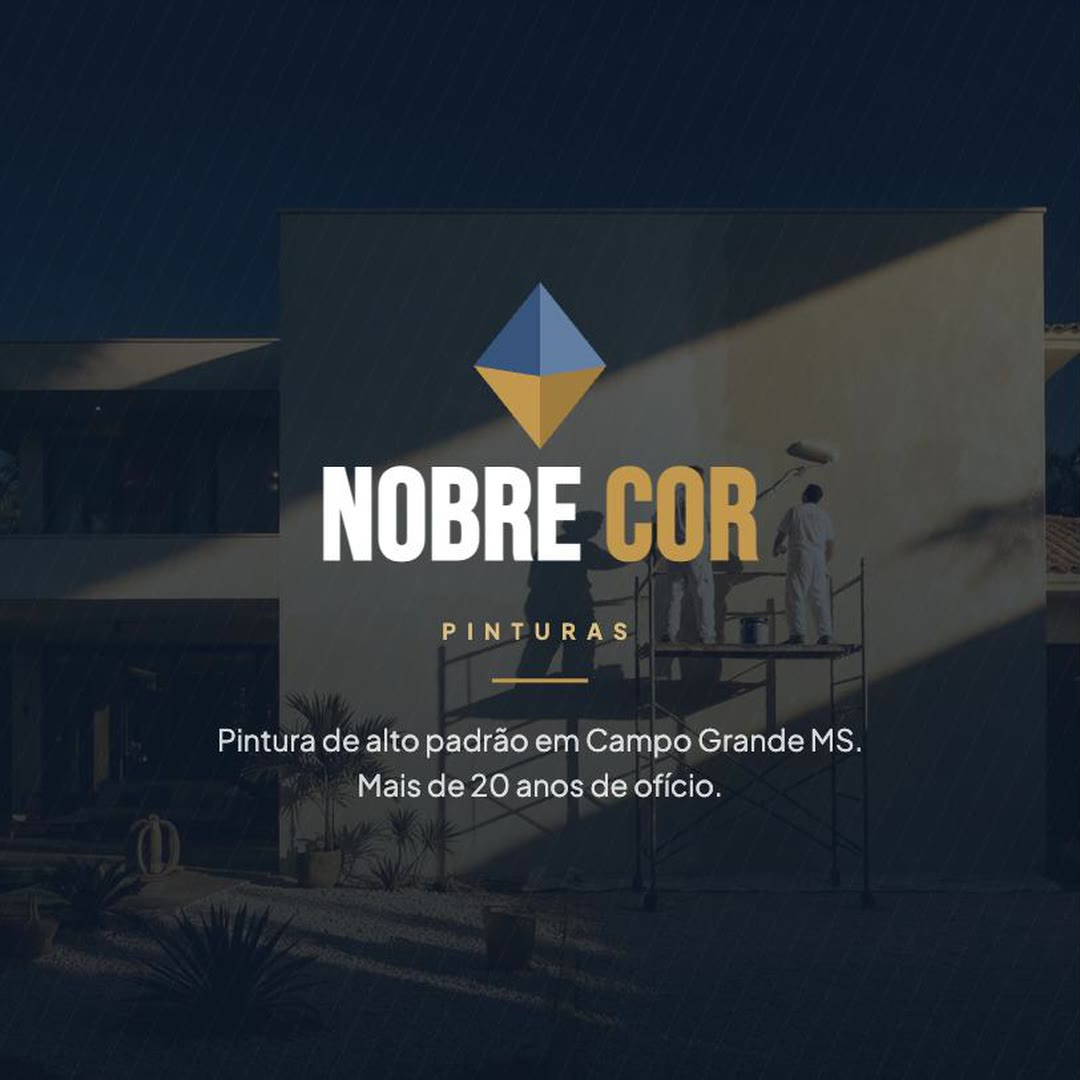
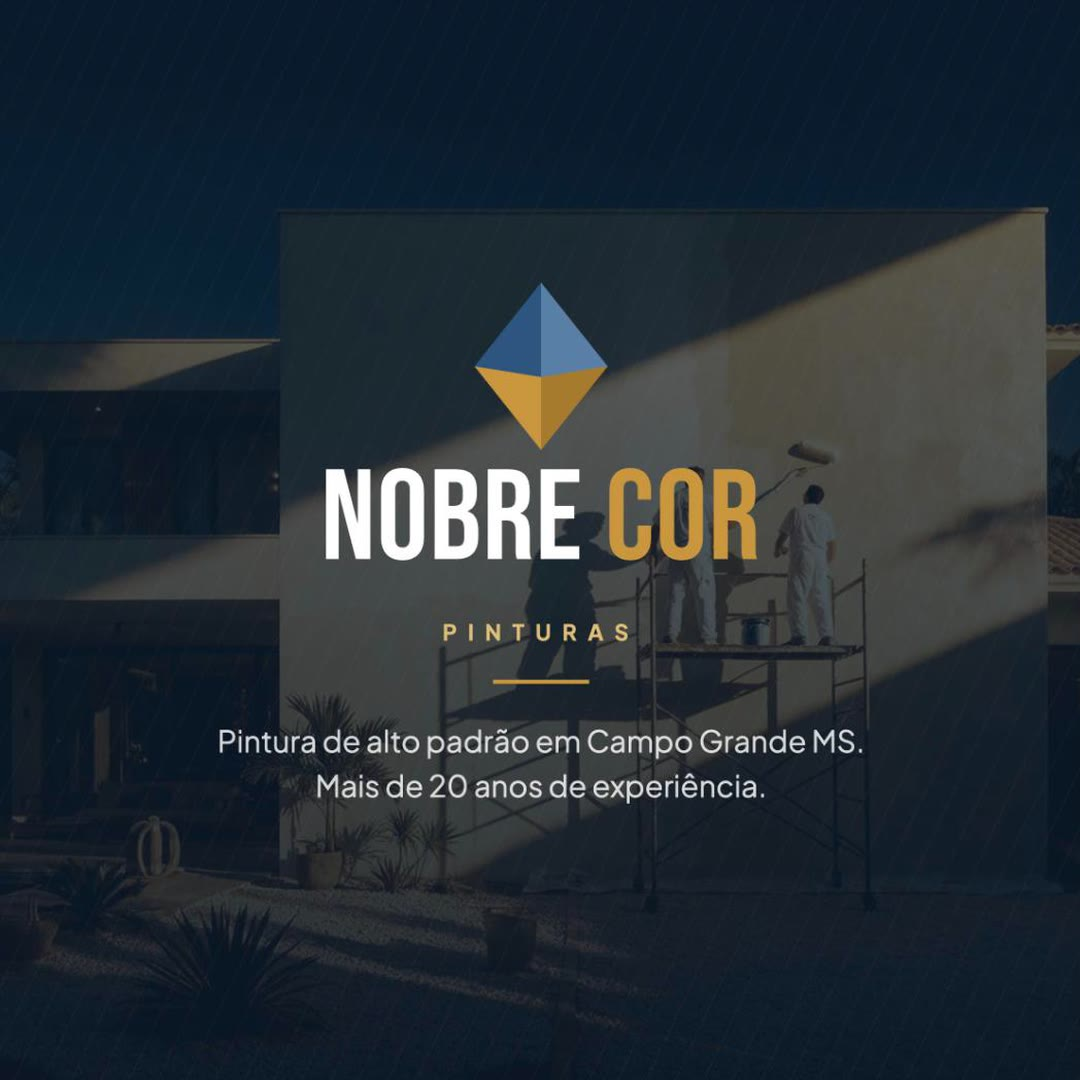
docs: domínio no ar e ajuste de vocabulário
- nobrecorpinturas.com.br publicado com TLS, www redirecionando 308 para o
  apex (sem o redirect o Google enxergaria duas cópias do site)
- "ofício" trocado por "experiência" em todo o site, a pedido do dono
- CLAUDE.md com o estado real de domínio, deploy, Google e Instagram

diff --git a/src/components/sections/FundadorSection.tsx b/src/components/sections/FundadorSection.tsx
@@ -41,7 +41,7 @@ export default function FundadorSection() {
             <figcaption className="mt-4 text-sm text-[#2b2b2b]/60">
               <span className="font-semibold text-[#1b3a5c]">{legenda}</span>
               <br />
-              Mais de 20 anos no ofício da pintura
+              Mais de 20 anos de experiência em pintura
             </figcaption>
           </figure>
         </Reveal>
@@ -56,7 +56,7 @@ export default function FundadorSection() {
               id="fundador-heading"
               className="mt-5 font-display text-3xl text-[#1b3a5c] md:text-4xl"
             >
-              Vinte anos aprendendo onde o ofício se aprende: dentro da obra
+              Vinte anos de experiência onde ela se constrói: dentro da obra
             </h2>
 
             <div className="mt-7 space-y-5 leading-relaxed text-[#2b2b2b]/80">

diff --git a/src/app/sobre/page.tsx b/src/app/sobre/page.tsx
@@ -11,7 +11,7 @@ import { buildBreadcrumbSchema, jsonLd } from '@/lib/schema'
 export const metadata: Metadata = buildMetadata({
   title: 'A Empresa Nobre Cor Pinturas em Campo Grande MS',
   description:
-    'Empresa de pintura de alto padrão em Campo Grande MS, com mais de 20 anos de experiência no ofício. Equipe uniformizada, obra protegida e limpa e cronograma cumprido.',
+    'Empresa de pintura de alto padrão em Campo Grande MS, com mais de 20 anos de experiência. Equipe uniformizada, obra protegida e limpa e cronograma cumprido.',
   path: '/sobre',
   tituloAbsoluto: true,
 })

diff --git a/src/content/servicos.ts b/src/content/servicos.ts
@@ -39,7 +39,7 @@ export interface Servico {
   etapas: { titulo: string; texto: string }[]
   /**
    * O erro que mais aparece neste serviço quando ele é feito às pressas.
-   * Conteúdo de ofício, útil para o cliente decidir e único por serviço.
+   * Conteúdo técnico do ramo, útil para o cliente decidir e único por serviço.
    */
   erroComum: { titulo: string; texto: string }
   keywords: string[]

diff --git a/CLAUDE.md b/CLAUDE.md
@@ -13,15 +13,16 @@
 | Stack | Next.js 16.3.1 · React 19.2.8 · **TypeScript 7.0.2** · Tailwind CSS 4.3.3 |
 | Build | 213 páginas estáticas (SSG), verde |
 | Repositório | `git@github.com:davialvescine/nobrecor.git` |
-| Deploy | ✅ produção na Vercel: `nobrecor.vercel.app` (projeto `davialvescine/nobrecor`, deploy via CLI) |
-| Domínio | ❌ `nobrecorpinturas.com.br` escolhido, ainda não registrado (ver `docs/dominio-e-dns.md`) |
+| Deploy | ✅ produção na Vercel, projeto `davialvescine/nobrecor`, deploy via `vercel deploy --prod --yes --scope davialvescine` |
+| Domínio | ✅ **https://nobrecorpinturas.com.br** no ar, TLS válido, www com 308 para o apex |
 | Instagram | ✅ `@nobrecorpinturasaltopadrao` (confirmado pelo dono em 16/08/2026) |
 | Telefone | ✅ `+55 67 98152-2412` (confirmado pelo dono em 16/08/2026) |
 | E-mail | ⚠ `nobrecorpinturas@gmail.com` — trocar por `contato@` no domínio próprio após o registro |
 | Formulário de orçamento | ✅ `FormOrcamento`, sem backend, envia pelo WhatsApp |
 | Google Analytics | ⚠ falta criar a propriedade e definir `NEXT_PUBLIC_GA_ID` |
 | Imagem de preview de link | ✅ gerada no build por `src/app/opengraph-image.tsx` |
-| Perfil da Empresa no Google | ❌ não cadastrado |
+| Perfil da Empresa no Google | ⚠ em cadastro; foto da vitrine já enviada. Materiais em `marca-google/` |
+| Instagram | ✅ `@nobrecorpinturasaltopadrao` com foto, bio e 3 posts. Materiais em `instagram/` |
 | Fotos de obra | ❌ nenhuma (portfólio vazio de propósito) |
 | Fundo da hero | ✅ 8 cenas (2 vídeos + 6 fotos, equipe de macacão azul) em transição cruzada — ambientação, NÃO obra da empresa |
 | Depoimentos | ❌ nenhum real |

diff --git a/instagram/LEIA-ME.md b/instagram/LEIA-ME.md
@@ -24,7 +24,7 @@ estiverem ali. Por isso "Campo Grande MS" aparece no Nome mesmo já estando na b
 
 ```
 Pintura de alto padrão em Campo Grande MS
-+20 anos de ofício · Obra limpa · Prazo cumprido
++20 anos de experiência · Obra limpa · Prazo cumprido
 Orçamento sem compromisso
 ```
 
@@ -46,7 +46,7 @@ Publique nesta ordem, um por dia, para o perfil não nascer vazio:
 
 > Nobre Cor Pinturas: pintura de alto padrão em Campo Grande MS.
 >
-> Mais de 20 anos de ofício, aprendidos onde o ofício se aprende: dentro da obra.
+> Mais de 20 anos de experiência, construída onde ela se constrói: dentro da obra.
 >
 > Pintura residencial, comercial e predial. Fachada, grafiato, marmorato, pintura decorativa e
 > acabamentos técnicos.
